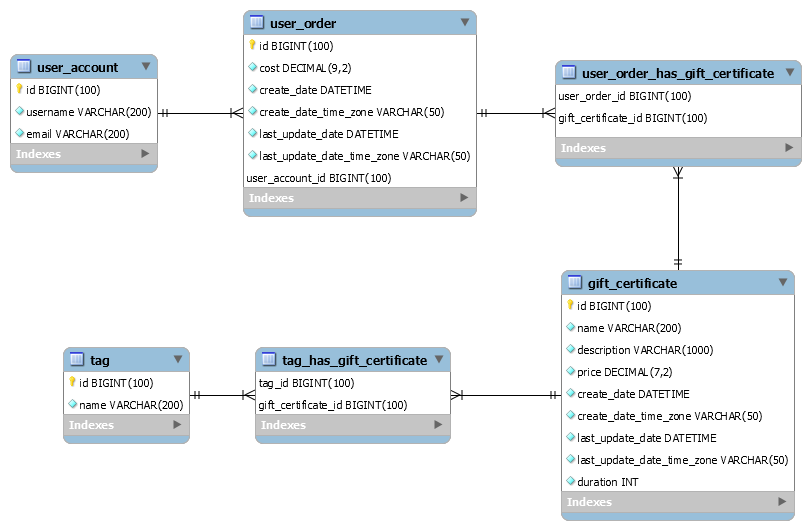
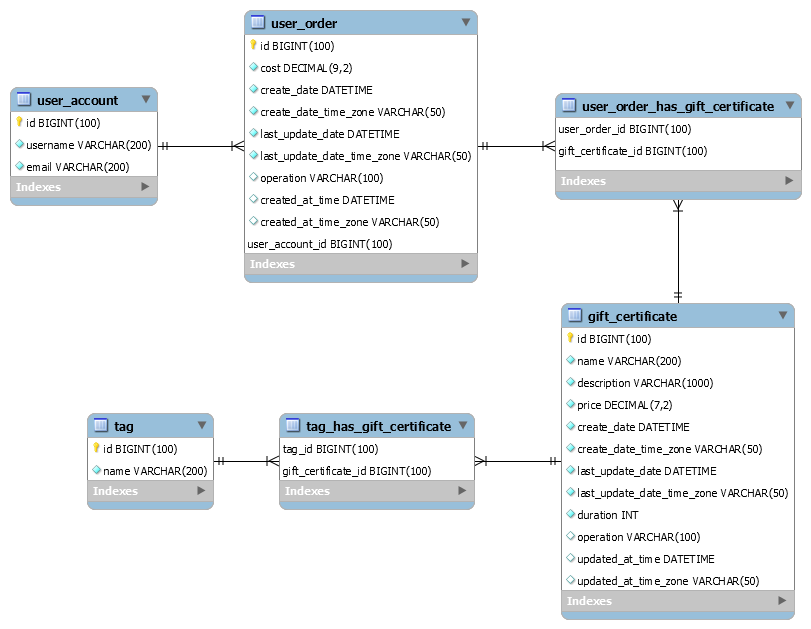
implemented audit, updated creating db script, model and png

Changed region(s): [[0.0617, 0.4528, 0.9864, 0.9962], [0.0, 0.0, 0.6165, 0.4528], [0.5857, 0.0906, 1.0, 0.3321]]

diff --git a/core/src/main/java/com/epam/esm/sokolov/model/Order.java b/core/src/main/java/com/epam/esm/sokolov/model/Order.java
@@ -8,6 +8,7 @@ import lombok.Setter;
 import javax.persistence.*;
 import java.math.BigDecimal;
 import java.time.LocalDateTime;
+import java.time.ZonedDateTime;
 import java.util.Objects;
 import java.util.Set;
 
@@ -40,6 +41,11 @@ public class Order {
             joinColumns = @JoinColumn(name = "user_order_id"),
             inverseJoinColumns = @JoinColumn(name = "gift_certificate_id"))
     private Set<GiftCertificate> giftCertificates;
+    private String operation;
+    @Column(name = "created_at_time")
+    private LocalDateTime createdAtTime;
+    @Column(name = "created_at_time_zone")
+    private String createdAtTimeZone;
 
     @Override
     public boolean equals(Object o) {
@@ -67,5 +73,12 @@ public class Order {
                 ", lastUpdateDate=" + lastUpdateDate +
                 ", lastUpdateDateTimeZone='" + lastUpdateDateTimeZone + '\'' +
                 '}';
+    }
+
+    @PrePersist
+    public void onPrePersist(){
+        this.operation = "PERSIST";
+        this.createdAtTime = LocalDateTime.now();
+        this.createdAtTimeZone = ZonedDateTime.now().getOffset().toString();
     }
 }

diff --git a/core/src/main/java/com/epam/esm/sokolov/model/GiftCertificate.java b/core/src/main/java/com/epam/esm/sokolov/model/GiftCertificate.java
@@ -8,6 +8,7 @@ import lombok.Setter;
 import javax.persistence.*;
 import java.math.BigDecimal;
 import java.time.LocalDateTime;
+import java.time.ZonedDateTime;
 import java.util.Objects;
 import java.util.Set;
 
@@ -42,6 +43,11 @@ public class GiftCertificate {
             joinColumns = @JoinColumn(name = "gift_certificate_id"),
             inverseJoinColumns = @JoinColumn(name = "tag_id"))
     private Set<Tag> tags;
+    private String operation;
+    @Column(name = "updated_at_time")
+    private LocalDateTime updatedAtTime;
+    @Column(name = "updated_at_time_zone")
+    private String updatedAtTimeZone;
 
     @Override
     public boolean equals(Object o) {
@@ -77,5 +83,12 @@ public class GiftCertificate {
                 ", lastUpdateDateTimeZone='" + lastUpdateDateTimeZone + '\'' +
                 ", duration=" + duration +
                 '}';
+    }
+
+    @PreUpdate
+    public void onPreUpdate(){
+        this.operation = "UPDATE";
+        this.updatedAtTime = LocalDateTime.now();
+        this.updatedAtTimeZone = ZonedDateTime.now().getOffset().toString();
     }
 }
